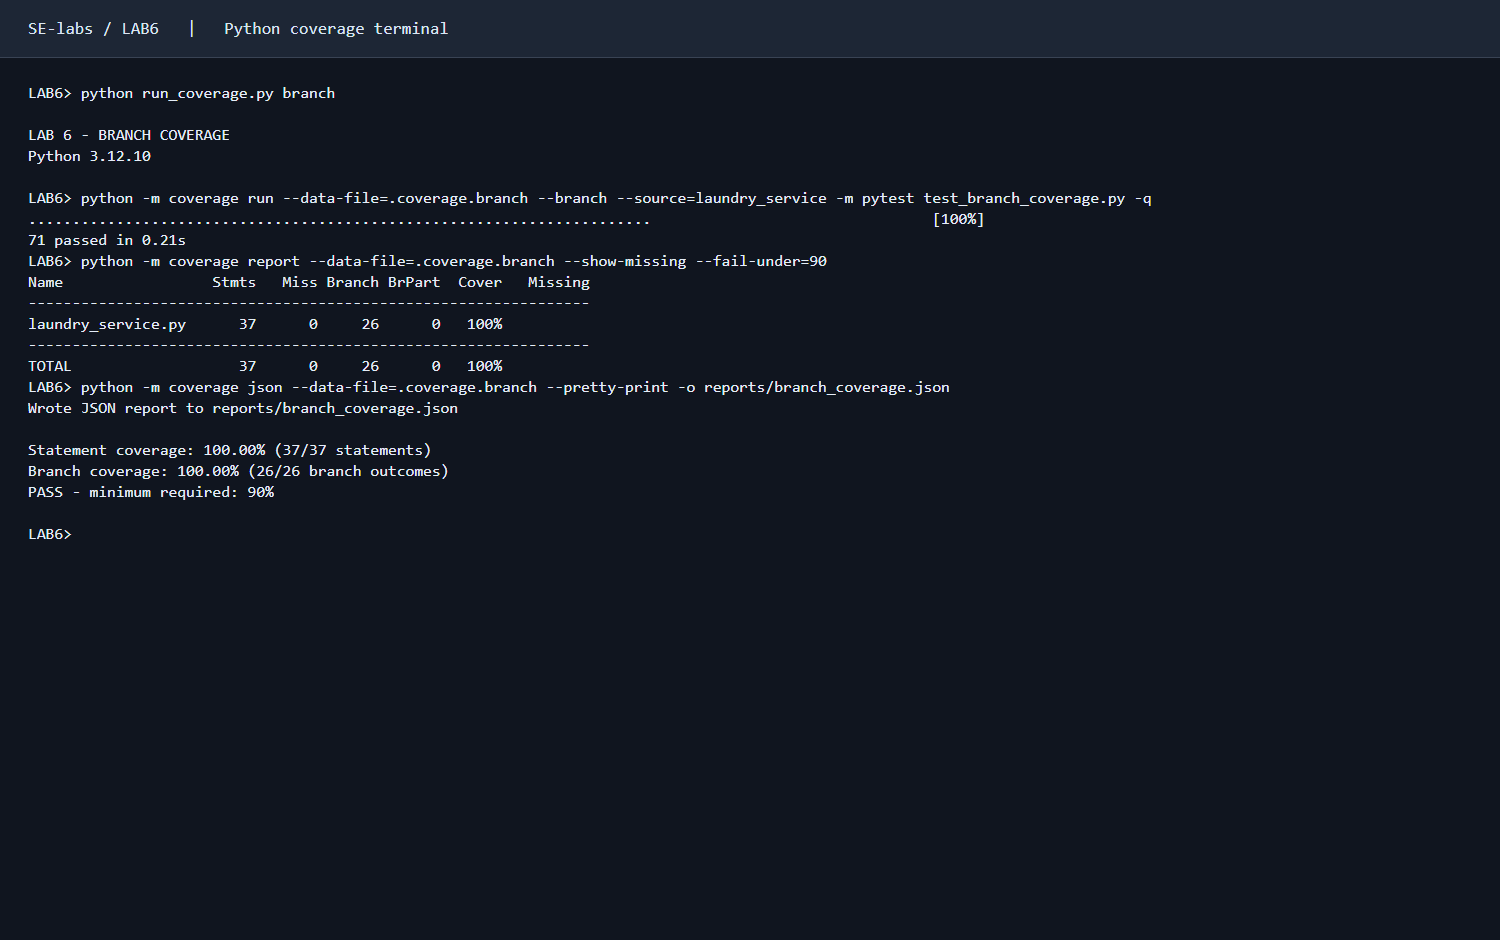
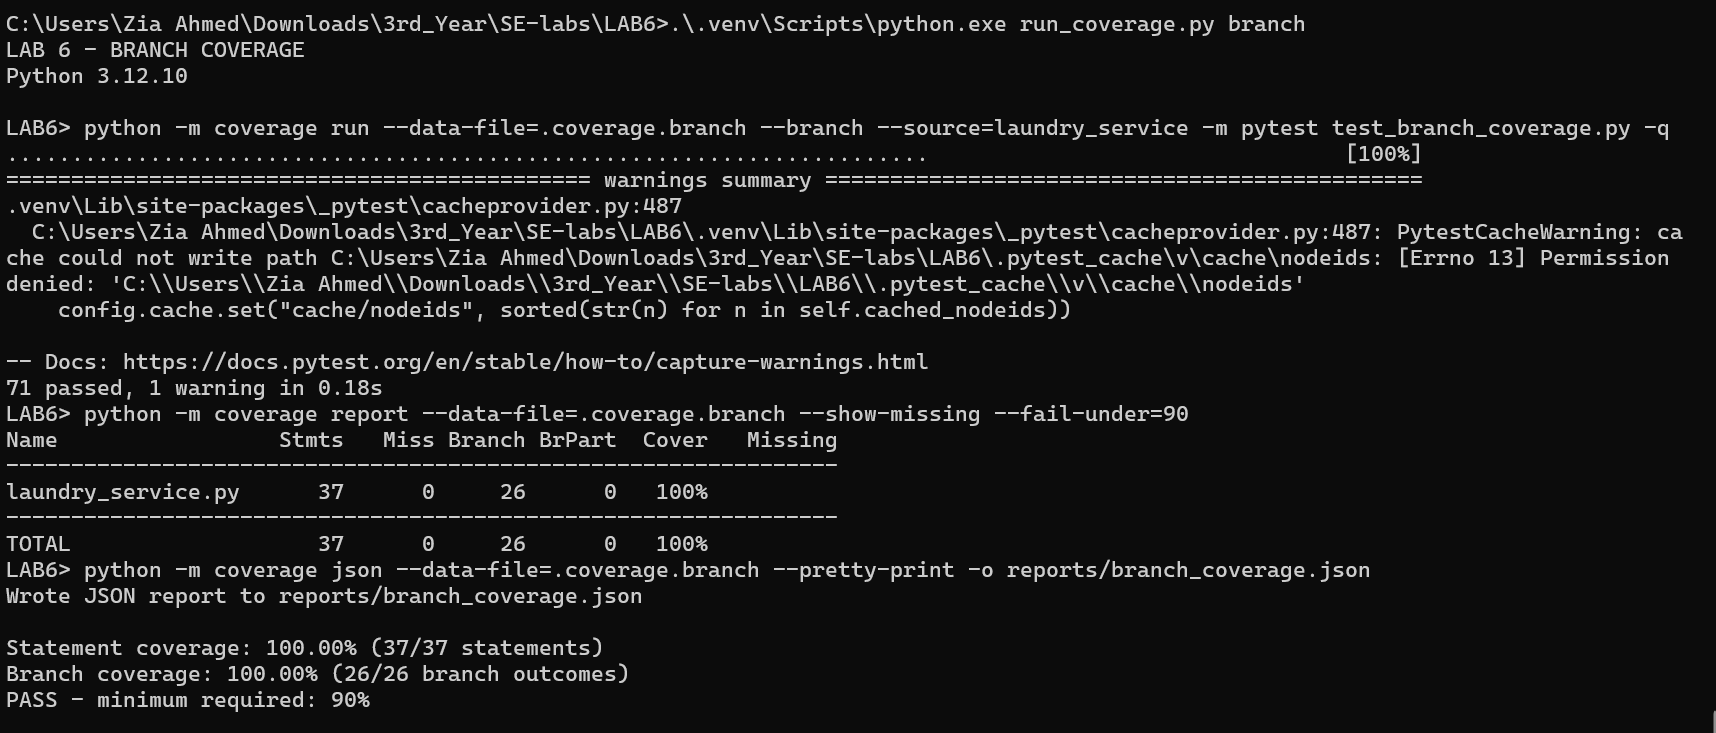
LAB6: replace evidence with user terminal screenshots

diff --git a/LAB6/README.md b/LAB6/README.md
@@ -68,9 +68,9 @@ Run both test files together without replacing the separate reports:
 - [Branch terminal transcript](reports/branch_coverage_terminal.txt)
 - [Machine-readable branch report](reports/branch_coverage.json)
 
-The screenshots capture a local xterm.js terminal streaming real invocations of
-`run_coverage.py`. Their output is produced by the commands, not retyped or generated
-as illustrations. The raw transcripts and JSON reports provide the underlying evidence.
+The screenshots are direct Windows terminal captures of the code and branch
+coverage runs using `run_coverage.py`. Each shows the final coverage percentages.
+The matching raw transcripts and JSON reports provide the underlying evidence.
 
 ## Separate commits
 
